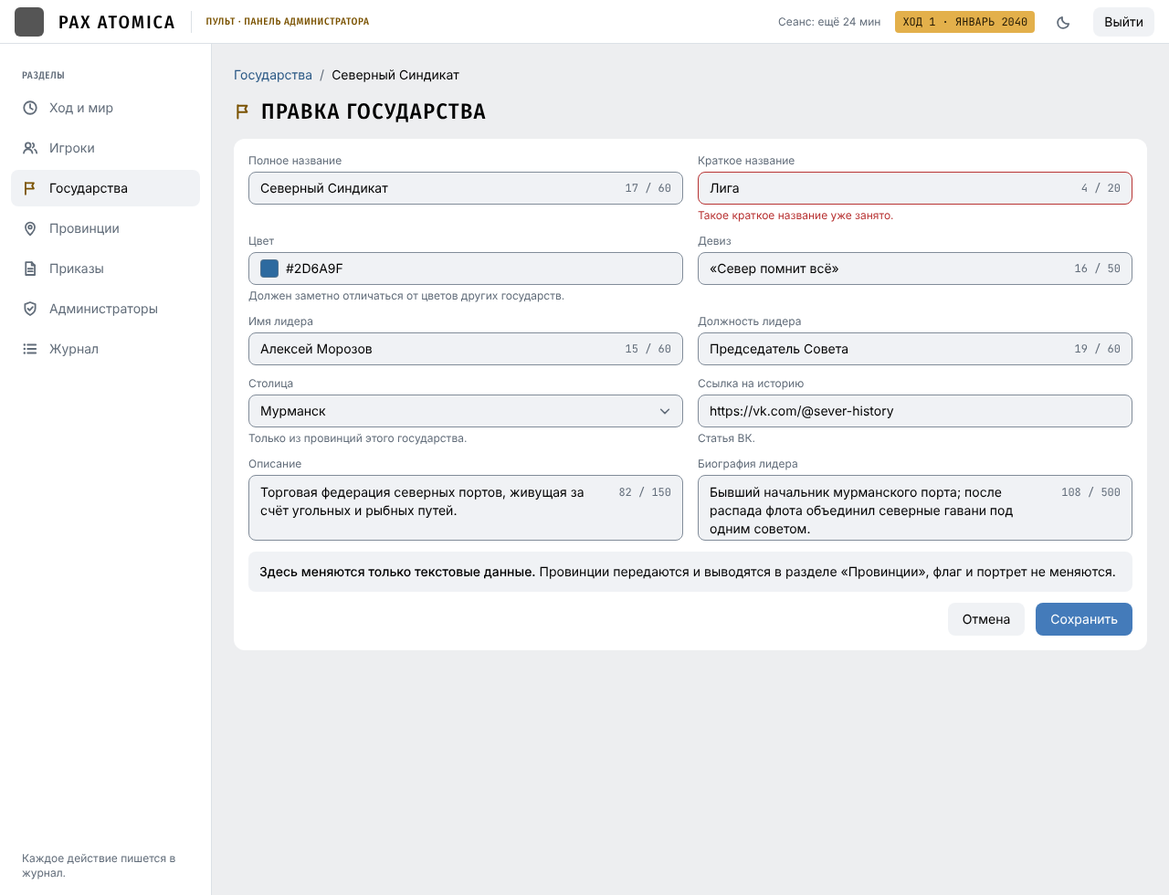
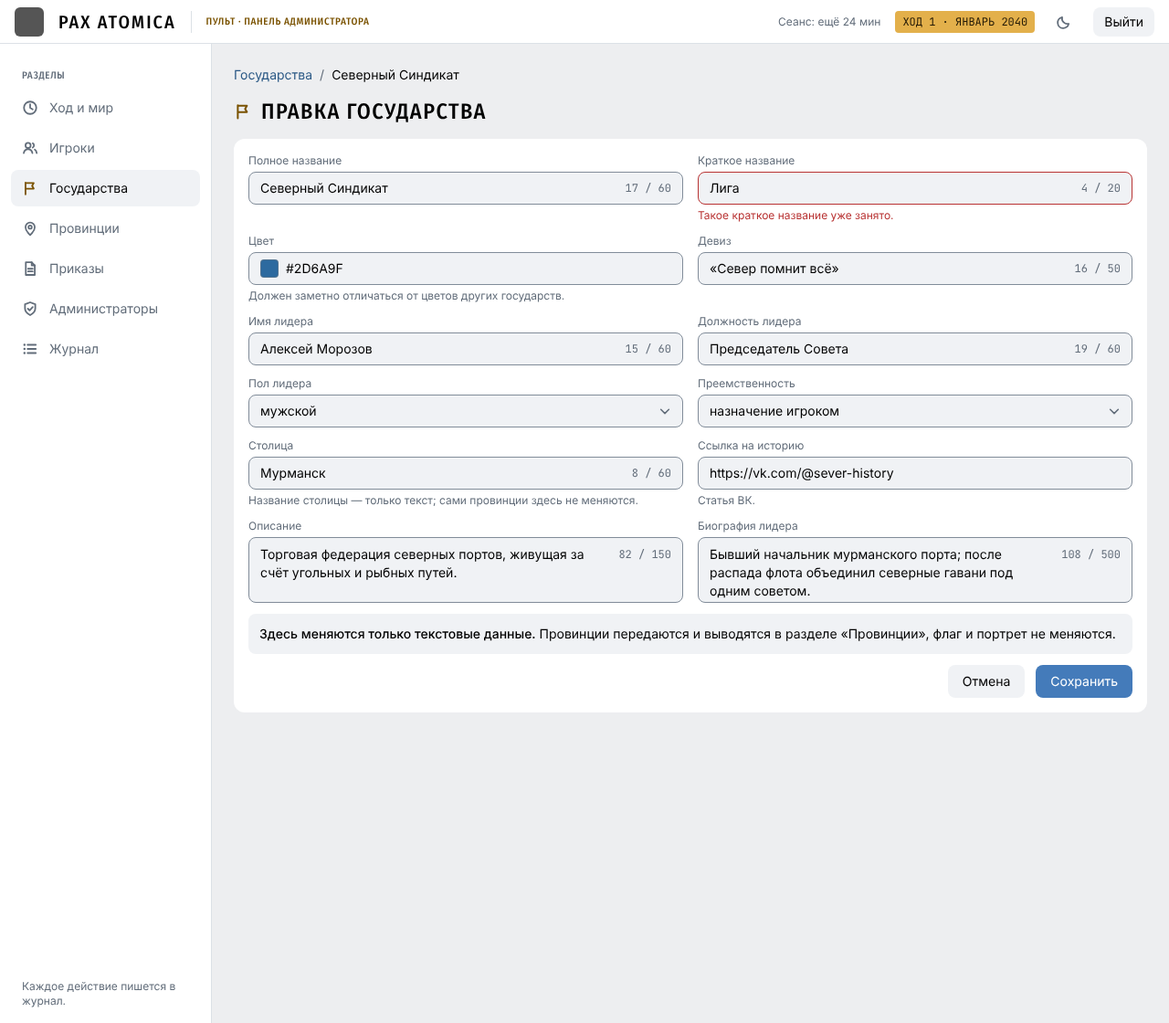
docs(0.11.0): updated 03b edit-nation mockups (leader gender, succession, capital-hint text)
Generated with [Devin](https://devin.ai)

diff --git a/docs/06_DESIGN/0.11.0/html/03b_pravka_gosudarstva_dark.html b/docs/06_DESIGN/0.11.0/html/03b_pravka_gosudarstva_dark.html
@@ -1,7 +1,7 @@
 <!doctype html><html lang="ru"><head><meta charset="utf-8"><title>Пульт</title><style>:root{--i:#e1e3e6;--line:#363738;--d:#ff5c5c;--m:#939393;--si:#e3b04b}
-@font-face{font-family:'Fira Sans Condensed';src:url('../../0.10.0/fonts/FiraSansCondensed-Regular.woff2');font-weight:400}
-@font-face{font-family:'Fira Sans Condensed';src:url('../../0.10.0/fonts/FiraSansCondensed-Medium.woff2');font-weight:500}
-@font-face{font-family:'JetBrains Mono';src:url('../../0.10.0/fonts/JetBrainsMono-Regular.woff2');font-weight:400}
+@font-face{font-family:'Fira Sans Condensed';src:url('../fonts/FiraSansCondensed-Regular.woff2');font-weight:400}
+@font-face{font-family:'Fira Sans Condensed';src:url('../fonts/FiraSansCondensed-Medium.woff2');font-weight:500}
+@font-face{font-family:'JetBrains Mono';src:url('../fonts/JetBrainsMono-Regular.woff2');font-weight:400}
 *{box-sizing:border-box}
 body{margin:0;background:#141414;color:#e1e3e6;font-family:-apple-system,BlinkMacSystemFont,'Roboto','Helvetica Neue',arial,sans-serif;font-size:14px;line-height:20px}
 a{color:inherit;text-decoration:none}
@@ -74,4 +74,4 @@ tr:last-child td{border-bottom:0}
 .seg span{display:flex;align-items:center;height:32px;padding:0 12px;border-radius:6px;color:#939393;white-space:nowrap}
 .seg span.on{background:#222222;color:#e1e3e6}
 .ctr{display:flex;align-items:center;justify-content:center}
-</style></head><body><div class="page" style="min-height:980px;"><header class="top"><span class="logo"></span><span class="wm">PAX ATOMICA</span><span class="sep"></span><span class="lab" style="color:var(--si)">Пульт · панель администратора</span><span class="grow"></span><span class="cap">Сеанс: ещё 24 мин</span><span class="turn">ХОД 1 · ЯНВАРЬ 2040</span><span title="Тема" style="display:flex;width:32px;height:32px;align-items:center;justify-content:center;color:var(--m)"><svg width="18" height="18" viewBox="0 0 16 16" fill="none" stroke="currentColor" stroke-width="1.6" stroke-linecap="round" stroke-linejoin="round" aria-hidden="true"><path d="M12.6 9.8A5.4 5.4 0 0 1 6.2 3.4a5.4 5.4 0 1 0 6.4 6.4z"/></svg></span><a class="btn  sm" href="#">Выйти</a></header><div class="body" style="min-height:932px"><nav class="side"><span class="lab grp">Разделы</span><a href="#" class=""><svg width="18" height="18" viewBox="0 0 16 16" fill="none" stroke="currentColor" stroke-width="1.6" stroke-linecap="round" stroke-linejoin="round" aria-hidden="true"><circle cx="8" cy="8" r="6"/><path d="M8 4.5V8l2.5 1.5"/></svg>Ход и мир</a><a href="#" class=""><svg width="18" height="18" viewBox="0 0 16 16" fill="none" stroke="currentColor" stroke-width="1.6" stroke-linecap="round" stroke-linejoin="round" aria-hidden="true"><circle cx="6" cy="5.5" r="2.5"/><path d="M1.8 13c.4-2.4 2.2-3.8 4.2-3.8s3.8 1.4 4.2 3.8"/><path d="M10.5 3.4a2.4 2.4 0 0 1 0 4.2M12.5 9.6c1 .6 1.7 1.7 1.9 3.4"/></svg>Игроки</a><a href="#" class="on"><svg width="18" height="18" viewBox="0 0 16 16" fill="none" stroke="currentColor" stroke-width="1.6" stroke-linecap="round" stroke-linejoin="round" aria-hidden="true"><path d="M3.5 14V2.5M3.5 3h8l-1.6 2.8L11.5 8.5h-8"/></svg>Государства</a><a href="#" class=""><svg width="18" height="18" viewBox="0 0 16 16" fill="none" stroke="currentColor" stroke-width="1.6" stroke-linecap="round" stroke-linejoin="round" aria-hidden="true"><path d="M8 14.5s4.5-4.2 4.5-7.7a4.5 4.5 0 0 0-9 0c0 3.5 4.5 7.7 4.5 7.7z"/><circle cx="8" cy="6.8" r="1.6"/></svg>Провинции</a><a href="#" class=""><svg width="18" height="18" viewBox="0 0 16 16" fill="none" stroke="currentColor" stroke-width="1.6" stroke-linecap="round" stroke-linejoin="round" aria-hidden="true"><path d="M3.8 1.8h5.7l3 3.1v9.3H3.8z"/><path d="M9.5 1.8v3.1h3M6 8.2h4.5M6 10.8h4.5"/></svg>Приказы</a><a href="#" class=""><svg width="18" height="18" viewBox="0 0 16 16" fill="none" stroke="currentColor" stroke-width="1.6" stroke-linecap="round" stroke-linejoin="round" aria-hidden="true"><path d="M8 1.8l5 1.8v4.2c0 3-2.2 5-5 6.4-2.8-1.4-5-3.4-5-6.4V3.6z"/><path d="M5.8 8l1.7 1.7L10.5 6.4"/></svg>Администраторы</a><a href="#" class=""><svg width="18" height="18" viewBox="0 0 16 16" fill="none" stroke="currentColor" stroke-width="1.6" stroke-linecap="round" stroke-linejoin="round" aria-hidden="true"><path d="M5.5 4h8M5.5 8h8M5.5 12h8"/><path d="M2.5 4h.01M2.5 8h.01M2.5 12h.01" stroke-width="2.2"/></svg>Журнал</a><span class="grow"></span><span class="cap" style="padding:0 12px">Каждое действие пишется в журнал.</span></nav><main class="main"><div class="crumbs"><a class="link" href="#">Государства</a><span>/</span><b>Северный Синдикат</b></div><h1><svg width="20" height="20" viewBox="0 0 16 16" fill="none" stroke="var(--si)" stroke-width="1.6" stroke-linecap="round" stroke-linejoin="round" aria-hidden="true"><path d="M3.5 14V2.5M3.5 3h8l-1.6 2.8L11.5 8.5h-8"/></svg>Правка государства</h1><section class="card"><div class="grid g2"><label class="fld"><span class="l">Полное название</span><span class="in"><span style="display:flex;align-items:center;gap:8px;overflow:hidden;text-overflow:ellipsis">Северный Синдикат</span><span class="cnt">17 / 60</span></span></label><label class="fld"><span class="l">Краткое название</span><span class="in err"><span style="display:flex;align-items:center;gap:8px;overflow:hidden;text-overflow:ellipsis">Лига</span><span class="cnt">4 / 20</span></span><span class="hint err">Такое краткое название уже занято.</span></label><label class="fld"><span class="l">Цвет</span><span class="in"><span style="display:flex;align-items:center;gap:8px;overflow:hidden;text-overflow:ellipsis"><span class="sw" style="background:#2d6a9f"></span>#2D6A9F</span></span><span class="hint">Должен заметно отличаться от цветов других государств.</span></label><label class="fld"><span class="l">Девиз</span><span class="in"><span style="display:flex;align-items:center;gap:8px;overflow:hidden;text-overflow:ellipsis">«Север помнит всё»</span><span class="cnt">16 / 50</span></span></label><label class="fld"><span class="l">Имя лидера</span><span class="in"><span style="display:flex;align-items:center;gap:8px;overflow:hidden;text-overflow:ellipsis">Алексей Морозов</span><span class="cnt">15 / 60</span></span></label><label class="fld"><span class="l">Должность лидера</span><span class="in"><span style="display:flex;align-items:center;gap:8px;overflow:hidden;text-overflow:ellipsis">Председатель Совета</span><span class="cnt">19 / 60</span></span></label><label class="fld"><span class="l">Столица</span><span class="in"><span style="display:flex;align-items:center;gap:8px;overflow:hidden;text-overflow:ellipsis">Мурманск</span><svg width="14" height="14" viewBox="0 0 16 16" fill="none" stroke="currentColor" stroke-width="1.75" stroke-linecap="round" stroke-linejoin="round" aria-hidden="true" style="flex-shrink:0;color:var(--m)"><path d="M3 6l5 5 5-5"/></svg></span><span class="hint">Только из провинций этого государства.</span></label><label class="fld"><span class="l">Ссылка на историю</span><span class="in"><span style="display:flex;align-items:center;gap:8px;overflow:hidden;text-overflow:ellipsis">https://vk.com/@sever-history</span></span><span class="hint">Статья ВК.</span></label></div><div class="grid g2"><label class="fld"><span class="l">Описание</span><span class="in area"><span style="display:flex;align-items:center;gap:8px;overflow:hidden;text-overflow:ellipsis">Торговая федерация северных портов, живущая за счёт угольных и рыбных путей.</span><span class="cnt">82 / 150</span></span></label><label class="fld"><span class="l">Биография лидера</span><span class="in area"><span style="display:flex;align-items:center;gap:8px;overflow:hidden;text-overflow:ellipsis">Бывший начальник мурманского порта; после распада флота объединил северные гавани под одним советом.</span><span class="cnt">108 / 500</span></span></label></div><div class="info"><b style="font-weight:500">Здесь меняются только текстовые данные.</b> Провинции передаются и выводятся в разделе «Провинции», флаг и портрет не меняются.</div><div class="row" style="justify-content:flex-end"><a class="btn" href="#">Отмена</a><a class="btn p" href="#">Сохранить</a></div></section></main></div></div></body></html>
+</style></head><body><div class="page" style="min-height:1120px;"><header class="top"><span class="logo"></span><span class="wm">PAX ATOMICA</span><span class="sep"></span><span class="lab" style="color:var(--si)">Пульт · панель администратора</span><span class="grow"></span><span class="cap">Сеанс: ещё 24 мин</span><span class="turn">ХОД 1 · ЯНВАРЬ 2040</span><span title="Тема" style="display:flex;width:32px;height:32px;align-items:center;justify-content:center;color:var(--m)"><svg width="18" height="18" viewBox="0 0 16 16" fill="none" stroke="currentColor" stroke-width="1.6" stroke-linecap="round" stroke-linejoin="round" aria-hidden="true"><path d="M12.6 9.8A5.4 5.4 0 0 1 6.2 3.4a5.4 5.4 0 1 0 6.4 6.4z"/></svg></span><a class="btn  sm" href="#">Выйти</a></header><div class="body" style="min-height:1072px"><nav class="side"><span class="lab grp">Разделы</span><a href="#" class=""><svg width="18" height="18" viewBox="0 0 16 16" fill="none" stroke="currentColor" stroke-width="1.6" stroke-linecap="round" stroke-linejoin="round" aria-hidden="true"><circle cx="8" cy="8" r="6"/><path d="M8 4.5V8l2.5 1.5"/></svg>Ход и мир</a><a href="#" class=""><svg width="18" height="18" viewBox="0 0 16 16" fill="none" stroke="currentColor" stroke-width="1.6" stroke-linecap="round" stroke-linejoin="round" aria-hidden="true"><circle cx="6" cy="5.5" r="2.5"/><path d="M1.8 13c.4-2.4 2.2-3.8 4.2-3.8s3.8 1.4 4.2 3.8"/><path d="M10.5 3.4a2.4 2.4 0 0 1 0 4.2M12.5 9.6c1 .6 1.7 1.7 1.9 3.4"/></svg>Игроки</a><a href="#" class="on"><svg width="18" height="18" viewBox="0 0 16 16" fill="none" stroke="currentColor" stroke-width="1.6" stroke-linecap="round" stroke-linejoin="round" aria-hidden="true"><path d="M3.5 14V2.5M3.5 3h8l-1.6 2.8L11.5 8.5h-8"/></svg>Государства</a><a href="#" class=""><svg width="18" height="18" viewBox="0 0 16 16" fill="none" stroke="currentColor" stroke-width="1.6" stroke-linecap="round" stroke-linejoin="round" aria-hidden="true"><path d="M8 14.5s4.5-4.2 4.5-7.7a4.5 4.5 0 0 0-9 0c0 3.5 4.5 7.7 4.5 7.7z"/><circle cx="8" cy="6.8" r="1.6"/></svg>Провинции</a><a href="#" class=""><svg width="18" height="18" viewBox="0 0 16 16" fill="none" stroke="currentColor" stroke-width="1.6" stroke-linecap="round" stroke-linejoin="round" aria-hidden="true"><path d="M3.8 1.8h5.7l3 3.1v9.3H3.8z"/><path d="M9.5 1.8v3.1h3M6 8.2h4.5M6 10.8h4.5"/></svg>Приказы</a><a href="#" class=""><svg width="18" height="18" viewBox="0 0 16 16" fill="none" stroke="currentColor" stroke-width="1.6" stroke-linecap="round" stroke-linejoin="round" aria-hidden="true"><path d="M8 1.8l5 1.8v4.2c0 3-2.2 5-5 6.4-2.8-1.4-5-3.4-5-6.4V3.6z"/><path d="M5.8 8l1.7 1.7L10.5 6.4"/></svg>Администраторы</a><a href="#" class=""><svg width="18" height="18" viewBox="0 0 16 16" fill="none" stroke="currentColor" stroke-width="1.6" stroke-linecap="round" stroke-linejoin="round" aria-hidden="true"><path d="M5.5 4h8M5.5 8h8M5.5 12h8"/><path d="M2.5 4h.01M2.5 8h.01M2.5 12h.01" stroke-width="2.2"/></svg>Журнал</a><span class="grow"></span><span class="cap" style="padding:0 12px">Каждое действие пишется в журнал.</span></nav><main class="main"><div class="crumbs"><a class="link" href="#">Государства</a><span>/</span><b>Северный Синдикат</b></div><h1><svg width="20" height="20" viewBox="0 0 16 16" fill="none" stroke="var(--si)" stroke-width="1.6" stroke-linecap="round" stroke-linejoin="round" aria-hidden="true"><path d="M3.5 14V2.5M3.5 3h8l-1.6 2.8L11.5 8.5h-8"/></svg>Правка государства</h1><section class="card"><div class="grid g2"><label class="fld"><span class="l">Полное название</span><span class="in"><span style="display:flex;align-items:center;gap:8px;overflow:hidden;text-overflow:ellipsis">Северный Синдикат</span><span class="cnt">17 / 60</span></span></label><label class="fld"><span class="l">Краткое название</span><span class="in err"><span style="display:flex;align-items:center;gap:8px;overflow:hidden;text-overflow:ellipsis">Лига</span><span class="cnt">4 / 20</span></span><span class="hint err">Такое краткое название уже занято.</span></label><label class="fld"><span class="l">Цвет</span><span class="in"><span style="display:flex;align-items:center;gap:8px;overflow:hidden;text-overflow:ellipsis"><span class="sw" style="background:#2d6a9f"></span>#2D6A9F</span></span><span class="hint">Должен заметно отличаться от цветов других государств.</span></label><label class="fld"><span class="l">Девиз</span><span class="in"><span style="display:flex;align-items:center;gap:8px;overflow:hidden;text-overflow:ellipsis">«Север помнит всё»</span><span class="cnt">16 / 50</span></span></label><label class="fld"><span class="l">Имя лидера</span><span class="in"><span style="display:flex;align-items:center;gap:8px;overflow:hidden;text-overflow:ellipsis">Алексей Морозов</span><span class="cnt">15 / 60</span></span></label><label class="fld"><span class="l">Должность лидера</span><span class="in"><span style="display:flex;align-items:center;gap:8px;overflow:hidden;text-overflow:ellipsis">Председатель Совета</span><span class="cnt">19 / 60</span></span></label><label class="fld"><span class="l">Пол лидера</span><span class="in"><span style="display:flex;align-items:center;gap:8px;overflow:hidden;text-overflow:ellipsis">мужской</span><svg width="14" height="14" viewBox="0 0 16 16" fill="none" stroke="currentColor" stroke-width="1.75" stroke-linecap="round" stroke-linejoin="round" aria-hidden="true" style="flex-shrink:0;color:var(--m)"><path d="M3 6l5 5 5-5"/></svg></span></label><label class="fld"><span class="l">Преемственность</span><span class="in"><span style="display:flex;align-items:center;gap:8px;overflow:hidden;text-overflow:ellipsis">назначение игроком</span><svg width="14" height="14" viewBox="0 0 16 16" fill="none" stroke="currentColor" stroke-width="1.75" stroke-linecap="round" stroke-linejoin="round" aria-hidden="true" style="flex-shrink:0;color:var(--m)"><path d="M3 6l5 5 5-5"/></svg></span></label><label class="fld"><span class="l">Столица</span><span class="in"><span style="display:flex;align-items:center;gap:8px;overflow:hidden;text-overflow:ellipsis">Мурманск</span><span class="cnt">8 / 60</span></span><span class="hint">Название столицы — только текст; сами провинции здесь не меняются.</span></label><label class="fld"><span class="l">Ссылка на историю</span><span class="in"><span style="display:flex;align-items:center;gap:8px;overflow:hidden;text-overflow:ellipsis">https://vk.com/@sever-history</span></span><span class="hint">Статья ВК.</span></label></div><div class="grid g2"><label class="fld"><span class="l">Описание</span><span class="in area"><span style="display:flex;align-items:center;gap:8px;overflow:hidden;text-overflow:ellipsis">Торговая федерация северных портов, живущая за счёт угольных и рыбных путей.</span><span class="cnt">82 / 150</span></span></label><label class="fld"><span class="l">Биография лидера</span><span class="in area"><span style="display:flex;align-items:center;gap:8px;overflow:hidden;text-overflow:ellipsis">Бывший начальник мурманского порта; после распада флота объединил северные гавани под одним советом.</span><span class="cnt">108 / 500</span></span></label></div><div class="info"><b style="font-weight:500">Здесь меняются только текстовые данные.</b> Провинции передаются и выводятся в разделе «Провинции», флаг и портрет не меняются.</div><div class="row" style="justify-content:flex-end"><a class="btn" href="#">Отмена</a><a class="btn p" href="#">Сохранить</a></div></section></main></div></div></body></html>

diff --git a/docs/06_DESIGN/0.11.0/html/03b_pravka_gosudarstva_light.html b/docs/06_DESIGN/0.11.0/html/03b_pravka_gosudarstva_light.html
@@ -1,7 +1,7 @@
 <!doctype html><html lang="ru"><head><meta charset="utf-8"><title>Пульт</title><style>:root{--i:#000000;--line:#dce1e6;--d:#b83232;--m:#626d7a;--si:#7a5200}
-@font-face{font-family:'Fira Sans Condensed';src:url('../../0.10.0/fonts/FiraSansCondensed-Regular.woff2');font-weight:400}
-@font-face{font-family:'Fira Sans Condensed';src:url('../../0.10.0/fonts/FiraSansCondensed-Medium.woff2');font-weight:500}
-@font-face{font-family:'JetBrains Mono';src:url('../../0.10.0/fonts/JetBrainsMono-Regular.woff2');font-weight:400}
+@font-face{font-family:'Fira Sans Condensed';src:url('../fonts/FiraSansCondensed-Regular.woff2');font-weight:400}
+@font-face{font-family:'Fira Sans Condensed';src:url('../fonts/FiraSansCondensed-Medium.woff2');font-weight:500}
+@font-face{font-family:'JetBrains Mono';src:url('../fonts/JetBrainsMono-Regular.woff2');font-weight:400}
 *{box-sizing:border-box}
 body{margin:0;background:#edeef0;color:#000000;font-family:-apple-system,BlinkMacSystemFont,'Roboto','Helvetica Neue',arial,sans-serif;font-size:14px;line-height:20px}
 a{color:inherit;text-decoration:none}
@@ -74,4 +74,4 @@ tr:last-child td{border-bottom:0}
 .seg span{display:flex;align-items:center;height:32px;padding:0 12px;border-radius:6px;color:#626d7a;white-space:nowrap}
 .seg span.on{background:#ffffff;color:#000000}
 .ctr{display:flex;align-items:center;justify-content:center}
-</style></head><body><div class="page" style="min-height:980px;"><header class="top"><span class="logo"></span><span class="wm">PAX ATOMICA</span><span class="sep"></span><span class="lab" style="color:var(--si)">Пульт · панель администратора</span><span class="grow"></span><span class="cap">Сеанс: ещё 24 мин</span><span class="turn">ХОД 1 · ЯНВАРЬ 2040</span><span title="Тема" style="display:flex;width:32px;height:32px;align-items:center;justify-content:center;color:var(--m)"><svg width="18" height="18" viewBox="0 0 16 16" fill="none" stroke="currentColor" stroke-width="1.6" stroke-linecap="round" stroke-linejoin="round" aria-hidden="true"><path d="M12.6 9.8A5.4 5.4 0 0 1 6.2 3.4a5.4 5.4 0 1 0 6.4 6.4z"/></svg></span><a class="btn  sm" href="#">Выйти</a></header><div class="body" style="min-height:932px"><nav class="side"><span class="lab grp">Разделы</span><a href="#" class=""><svg width="18" height="18" viewBox="0 0 16 16" fill="none" stroke="currentColor" stroke-width="1.6" stroke-linecap="round" stroke-linejoin="round" aria-hidden="true"><circle cx="8" cy="8" r="6"/><path d="M8 4.5V8l2.5 1.5"/></svg>Ход и мир</a><a href="#" class=""><svg width="18" height="18" viewBox="0 0 16 16" fill="none" stroke="currentColor" stroke-width="1.6" stroke-linecap="round" stroke-linejoin="round" aria-hidden="true"><circle cx="6" cy="5.5" r="2.5"/><path d="M1.8 13c.4-2.4 2.2-3.8 4.2-3.8s3.8 1.4 4.2 3.8"/><path d="M10.5 3.4a2.4 2.4 0 0 1 0 4.2M12.5 9.6c1 .6 1.7 1.7 1.9 3.4"/></svg>Игроки</a><a href="#" class="on"><svg width="18" height="18" viewBox="0 0 16 16" fill="none" stroke="currentColor" stroke-width="1.6" stroke-linecap="round" stroke-linejoin="round" aria-hidden="true"><path d="M3.5 14V2.5M3.5 3h8l-1.6 2.8L11.5 8.5h-8"/></svg>Государства</a><a href="#" class=""><svg width="18" height="18" viewBox="0 0 16 16" fill="none" stroke="currentColor" stroke-width="1.6" stroke-linecap="round" stroke-linejoin="round" aria-hidden="true"><path d="M8 14.5s4.5-4.2 4.5-7.7a4.5 4.5 0 0 0-9 0c0 3.5 4.5 7.7 4.5 7.7z"/><circle cx="8" cy="6.8" r="1.6"/></svg>Провинции</a><a href="#" class=""><svg width="18" height="18" viewBox="0 0 16 16" fill="none" stroke="currentColor" stroke-width="1.6" stroke-linecap="round" stroke-linejoin="round" aria-hidden="true"><path d="M3.8 1.8h5.7l3 3.1v9.3H3.8z"/><path d="M9.5 1.8v3.1h3M6 8.2h4.5M6 10.8h4.5"/></svg>Приказы</a><a href="#" class=""><svg width="18" height="18" viewBox="0 0 16 16" fill="none" stroke="currentColor" stroke-width="1.6" stroke-linecap="round" stroke-linejoin="round" aria-hidden="true"><path d="M8 1.8l5 1.8v4.2c0 3-2.2 5-5 6.4-2.8-1.4-5-3.4-5-6.4V3.6z"/><path d="M5.8 8l1.7 1.7L10.5 6.4"/></svg>Администраторы</a><a href="#" class=""><svg width="18" height="18" viewBox="0 0 16 16" fill="none" stroke="currentColor" stroke-width="1.6" stroke-linecap="round" stroke-linejoin="round" aria-hidden="true"><path d="M5.5 4h8M5.5 8h8M5.5 12h8"/><path d="M2.5 4h.01M2.5 8h.01M2.5 12h.01" stroke-width="2.2"/></svg>Журнал</a><span class="grow"></span><span class="cap" style="padding:0 12px">Каждое действие пишется в журнал.</span></nav><main class="main"><div class="crumbs"><a class="link" href="#">Государства</a><span>/</span><b>Северный Синдикат</b></div><h1><svg width="20" height="20" viewBox="0 0 16 16" fill="none" stroke="var(--si)" stroke-width="1.6" stroke-linecap="round" stroke-linejoin="round" aria-hidden="true"><path d="M3.5 14V2.5M3.5 3h8l-1.6 2.8L11.5 8.5h-8"/></svg>Правка государства</h1><section class="card"><div class="grid g2"><label class="fld"><span class="l">Полное название</span><span class="in"><span style="display:flex;align-items:center;gap:8px;overflow:hidden;text-overflow:ellipsis">Северный Синдикат</span><span class="cnt">17 / 60</span></span></label><label class="fld"><span class="l">Краткое название</span><span class="in err"><span style="display:flex;align-items:center;gap:8px;overflow:hidden;text-overflow:ellipsis">Лига</span><span class="cnt">4 / 20</span></span><span class="hint err">Такое краткое название уже занято.</span></label><label class="fld"><span class="l">Цвет</span><span class="in"><span style="display:flex;align-items:center;gap:8px;overflow:hidden;text-overflow:ellipsis"><span class="sw" style="background:#2d6a9f"></span>#2D6A9F</span></span><span class="hint">Должен заметно отличаться от цветов других государств.</span></label><label class="fld"><span class="l">Девиз</span><span class="in"><span style="display:flex;align-items:center;gap:8px;overflow:hidden;text-overflow:ellipsis">«Север помнит всё»</span><span class="cnt">16 / 50</span></span></label><label class="fld"><span class="l">Имя лидера</span><span class="in"><span style="display:flex;align-items:center;gap:8px;overflow:hidden;text-overflow:ellipsis">Алексей Морозов</span><span class="cnt">15 / 60</span></span></label><label class="fld"><span class="l">Должность лидера</span><span class="in"><span style="display:flex;align-items:center;gap:8px;overflow:hidden;text-overflow:ellipsis">Председатель Совета</span><span class="cnt">19 / 60</span></span></label><label class="fld"><span class="l">Столица</span><span class="in"><span style="display:flex;align-items:center;gap:8px;overflow:hidden;text-overflow:ellipsis">Мурманск</span><svg width="14" height="14" viewBox="0 0 16 16" fill="none" stroke="currentColor" stroke-width="1.75" stroke-linecap="round" stroke-linejoin="round" aria-hidden="true" style="flex-shrink:0;color:var(--m)"><path d="M3 6l5 5 5-5"/></svg></span><span class="hint">Только из провинций этого государства.</span></label><label class="fld"><span class="l">Ссылка на историю</span><span class="in"><span style="display:flex;align-items:center;gap:8px;overflow:hidden;text-overflow:ellipsis">https://vk.com/@sever-history</span></span><span class="hint">Статья ВК.</span></label></div><div class="grid g2"><label class="fld"><span class="l">Описание</span><span class="in area"><span style="display:flex;align-items:center;gap:8px;overflow:hidden;text-overflow:ellipsis">Торговая федерация северных портов, живущая за счёт угольных и рыбных путей.</span><span class="cnt">82 / 150</span></span></label><label class="fld"><span class="l">Биография лидера</span><span class="in area"><span style="display:flex;align-items:center;gap:8px;overflow:hidden;text-overflow:ellipsis">Бывший начальник мурманского порта; после распада флота объединил северные гавани под одним советом.</span><span class="cnt">108 / 500</span></span></label></div><div class="info"><b style="font-weight:500">Здесь меняются только текстовые данные.</b> Провинции передаются и выводятся в разделе «Провинции», флаг и портрет не меняются.</div><div class="row" style="justify-content:flex-end"><a class="btn" href="#">Отмена</a><a class="btn p" href="#">Сохранить</a></div></section></main></div></div></body></html>
+</style></head><body><div class="page" style="min-height:1120px;"><header class="top"><span class="logo"></span><span class="wm">PAX ATOMICA</span><span class="sep"></span><span class="lab" style="color:var(--si)">Пульт · панель администратора</span><span class="grow"></span><span class="cap">Сеанс: ещё 24 мин</span><span class="turn">ХОД 1 · ЯНВАРЬ 2040</span><span title="Тема" style="display:flex;width:32px;height:32px;align-items:center;justify-content:center;color:var(--m)"><svg width="18" height="18" viewBox="0 0 16 16" fill="none" stroke="currentColor" stroke-width="1.6" stroke-linecap="round" stroke-linejoin="round" aria-hidden="true"><path d="M12.6 9.8A5.4 5.4 0 0 1 6.2 3.4a5.4 5.4 0 1 0 6.4 6.4z"/></svg></span><a class="btn  sm" href="#">Выйти</a></header><div class="body" style="min-height:1072px"><nav class="side"><span class="lab grp">Разделы</span><a href="#" class=""><svg width="18" height="18" viewBox="0 0 16 16" fill="none" stroke="currentColor" stroke-width="1.6" stroke-linecap="round" stroke-linejoin="round" aria-hidden="true"><circle cx="8" cy="8" r="6"/><path d="M8 4.5V8l2.5 1.5"/></svg>Ход и мир</a><a href="#" class=""><svg width="18" height="18" viewBox="0 0 16 16" fill="none" stroke="currentColor" stroke-width="1.6" stroke-linecap="round" stroke-linejoin="round" aria-hidden="true"><circle cx="6" cy="5.5" r="2.5"/><path d="M1.8 13c.4-2.4 2.2-3.8 4.2-3.8s3.8 1.4 4.2 3.8"/><path d="M10.5 3.4a2.4 2.4 0 0 1 0 4.2M12.5 9.6c1 .6 1.7 1.7 1.9 3.4"/></svg>Игроки</a><a href="#" class="on"><svg width="18" height="18" viewBox="0 0 16 16" fill="none" stroke="currentColor" stroke-width="1.6" stroke-linecap="round" stroke-linejoin="round" aria-hidden="true"><path d="M3.5 14V2.5M3.5 3h8l-1.6 2.8L11.5 8.5h-8"/></svg>Государства</a><a href="#" class=""><svg width="18" height="18" viewBox="0 0 16 16" fill="none" stroke="currentColor" stroke-width="1.6" stroke-linecap="round" stroke-linejoin="round" aria-hidden="true"><path d="M8 14.5s4.5-4.2 4.5-7.7a4.5 4.5 0 0 0-9 0c0 3.5 4.5 7.7 4.5 7.7z"/><circle cx="8" cy="6.8" r="1.6"/></svg>Провинции</a><a href="#" class=""><svg width="18" height="18" viewBox="0 0 16 16" fill="none" stroke="currentColor" stroke-width="1.6" stroke-linecap="round" stroke-linejoin="round" aria-hidden="true"><path d="M3.8 1.8h5.7l3 3.1v9.3H3.8z"/><path d="M9.5 1.8v3.1h3M6 8.2h4.5M6 10.8h4.5"/></svg>Приказы</a><a href="#" class=""><svg width="18" height="18" viewBox="0 0 16 16" fill="none" stroke="currentColor" stroke-width="1.6" stroke-linecap="round" stroke-linejoin="round" aria-hidden="true"><path d="M8 1.8l5 1.8v4.2c0 3-2.2 5-5 6.4-2.8-1.4-5-3.4-5-6.4V3.6z"/><path d="M5.8 8l1.7 1.7L10.5 6.4"/></svg>Администраторы</a><a href="#" class=""><svg width="18" height="18" viewBox="0 0 16 16" fill="none" stroke="currentColor" stroke-width="1.6" stroke-linecap="round" stroke-linejoin="round" aria-hidden="true"><path d="M5.5 4h8M5.5 8h8M5.5 12h8"/><path d="M2.5 4h.01M2.5 8h.01M2.5 12h.01" stroke-width="2.2"/></svg>Журнал</a><span class="grow"></span><span class="cap" style="padding:0 12px">Каждое действие пишется в журнал.</span></nav><main class="main"><div class="crumbs"><a class="link" href="#">Государства</a><span>/</span><b>Северный Синдикат</b></div><h1><svg width="20" height="20" viewBox="0 0 16 16" fill="none" stroke="var(--si)" stroke-width="1.6" stroke-linecap="round" stroke-linejoin="round" aria-hidden="true"><path d="M3.5 14V2.5M3.5 3h8l-1.6 2.8L11.5 8.5h-8"/></svg>Правка государства</h1><section class="card"><div class="grid g2"><label class="fld"><span class="l">Полное название</span><span class="in"><span style="display:flex;align-items:center;gap:8px;overflow:hidden;text-overflow:ellipsis">Северный Синдикат</span><span class="cnt">17 / 60</span></span></label><label class="fld"><span class="l">Краткое название</span><span class="in err"><span style="display:flex;align-items:center;gap:8px;overflow:hidden;text-overflow:ellipsis">Лига</span><span class="cnt">4 / 20</span></span><span class="hint err">Такое краткое название уже занято.</span></label><label class="fld"><span class="l">Цвет</span><span class="in"><span style="display:flex;align-items:center;gap:8px;overflow:hidden;text-overflow:ellipsis"><span class="sw" style="background:#2d6a9f"></span>#2D6A9F</span></span><span class="hint">Должен заметно отличаться от цветов других государств.</span></label><label class="fld"><span class="l">Девиз</span><span class="in"><span style="display:flex;align-items:center;gap:8px;overflow:hidden;text-overflow:ellipsis">«Север помнит всё»</span><span class="cnt">16 / 50</span></span></label><label class="fld"><span class="l">Имя лидера</span><span class="in"><span style="display:flex;align-items:center;gap:8px;overflow:hidden;text-overflow:ellipsis">Алексей Морозов</span><span class="cnt">15 / 60</span></span></label><label class="fld"><span class="l">Должность лидера</span><span class="in"><span style="display:flex;align-items:center;gap:8px;overflow:hidden;text-overflow:ellipsis">Председатель Совета</span><span class="cnt">19 / 60</span></span></label><label class="fld"><span class="l">Пол лидера</span><span class="in"><span style="display:flex;align-items:center;gap:8px;overflow:hidden;text-overflow:ellipsis">мужской</span><svg width="14" height="14" viewBox="0 0 16 16" fill="none" stroke="currentColor" stroke-width="1.75" stroke-linecap="round" stroke-linejoin="round" aria-hidden="true" style="flex-shrink:0;color:var(--m)"><path d="M3 6l5 5 5-5"/></svg></span></label><label class="fld"><span class="l">Преемственность</span><span class="in"><span style="display:flex;align-items:center;gap:8px;overflow:hidden;text-overflow:ellipsis">назначение игроком</span><svg width="14" height="14" viewBox="0 0 16 16" fill="none" stroke="currentColor" stroke-width="1.75" stroke-linecap="round" stroke-linejoin="round" aria-hidden="true" style="flex-shrink:0;color:var(--m)"><path d="M3 6l5 5 5-5"/></svg></span></label><label class="fld"><span class="l">Столица</span><span class="in"><span style="display:flex;align-items:center;gap:8px;overflow:hidden;text-overflow:ellipsis">Мурманск</span><span class="cnt">8 / 60</span></span><span class="hint">Название столицы — только текст; сами провинции здесь не меняются.</span></label><label class="fld"><span class="l">Ссылка на историю</span><span class="in"><span style="display:flex;align-items:center;gap:8px;overflow:hidden;text-overflow:ellipsis">https://vk.com/@sever-history</span></span><span class="hint">Статья ВК.</span></label></div><div class="grid g2"><label class="fld"><span class="l">Описание</span><span class="in area"><span style="display:flex;align-items:center;gap:8px;overflow:hidden;text-overflow:ellipsis">Торговая федерация северных портов, живущая за счёт угольных и рыбных путей.</span><span class="cnt">82 / 150</span></span></label><label class="fld"><span class="l">Биография лидера</span><span class="in area"><span style="display:flex;align-items:center;gap:8px;overflow:hidden;text-overflow:ellipsis">Бывший начальник мурманского порта; после распада флота объединил северные гавани под одним советом.</span><span class="cnt">108 / 500</span></span></label></div><div class="info"><b style="font-weight:500">Здесь меняются только текстовые данные.</b> Провинции передаются и выводятся в разделе «Провинции», флаг и портрет не меняются.</div><div class="row" style="justify-content:flex-end"><a class="btn" href="#">Отмена</a><a class="btn p" href="#">Сохранить</a></div></section></main></div></div></body></html>

diff --git a/docs/06_DESIGN/0.11.0/README.md b/docs/06_DESIGN/0.11.0/README.md
@@ -20,6 +20,8 @@
 
 03c обновлён 24.10.2026: добавлены поля «Пол лидера», «Преемственность», «Ссылка на историю» (обязательны для создания государства).
 
+03b обновлён 25.10.2026: добавлены поля «Пол лидера», «Преемственность»; подсказка у столицы — название только текст.
+
 Допущение Lead AI: «основные данные государства» = текстовые поля окна правки игрока (названия, цвет, девиз, описание, лидер, должность, биография, столица, ссылка на историю); провинции, флаг и портрет здесь не правятся.
 
 08 — подпись под таблицей изменена 24.10.2026: «хранятся последние N записей, править и удалять вручную нельзя» (автоочистка журнала).
